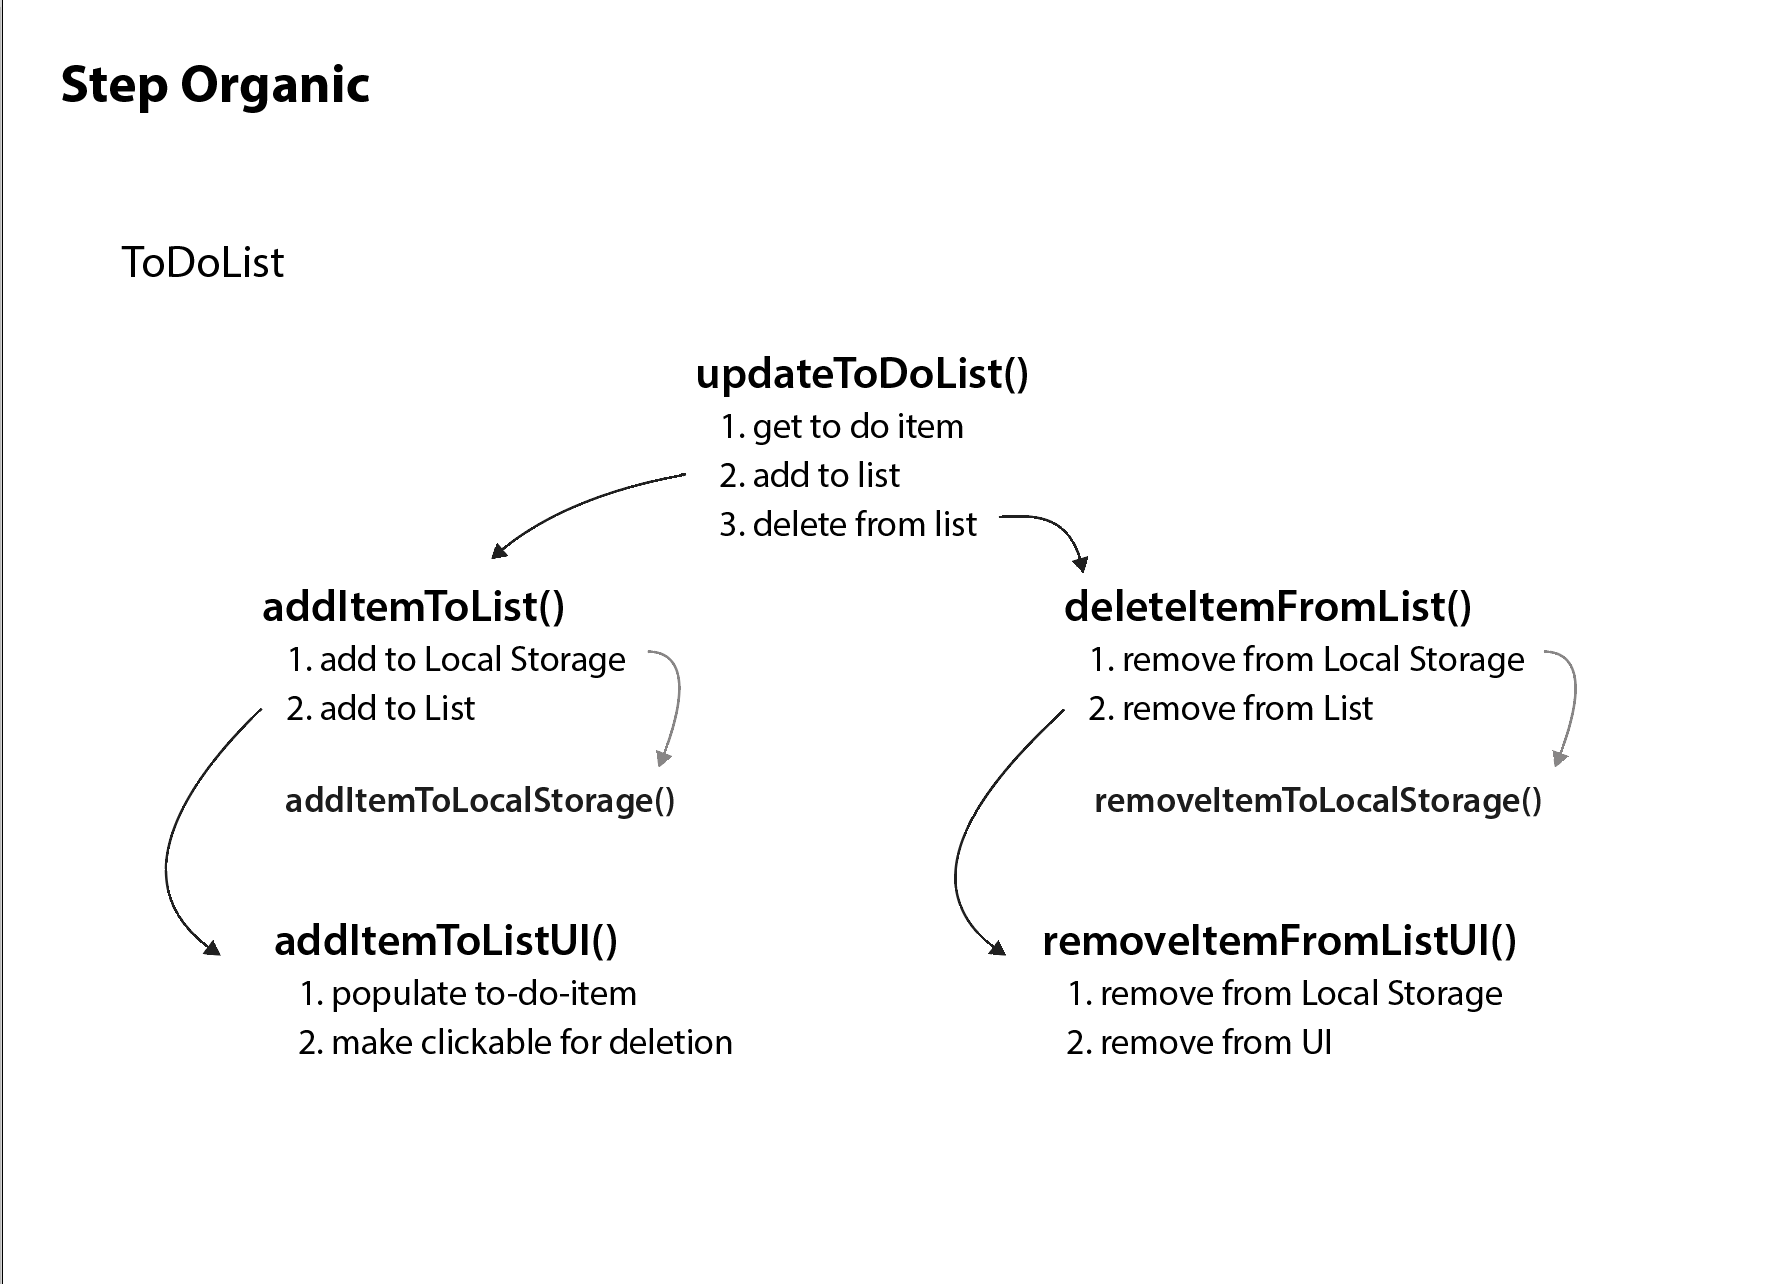
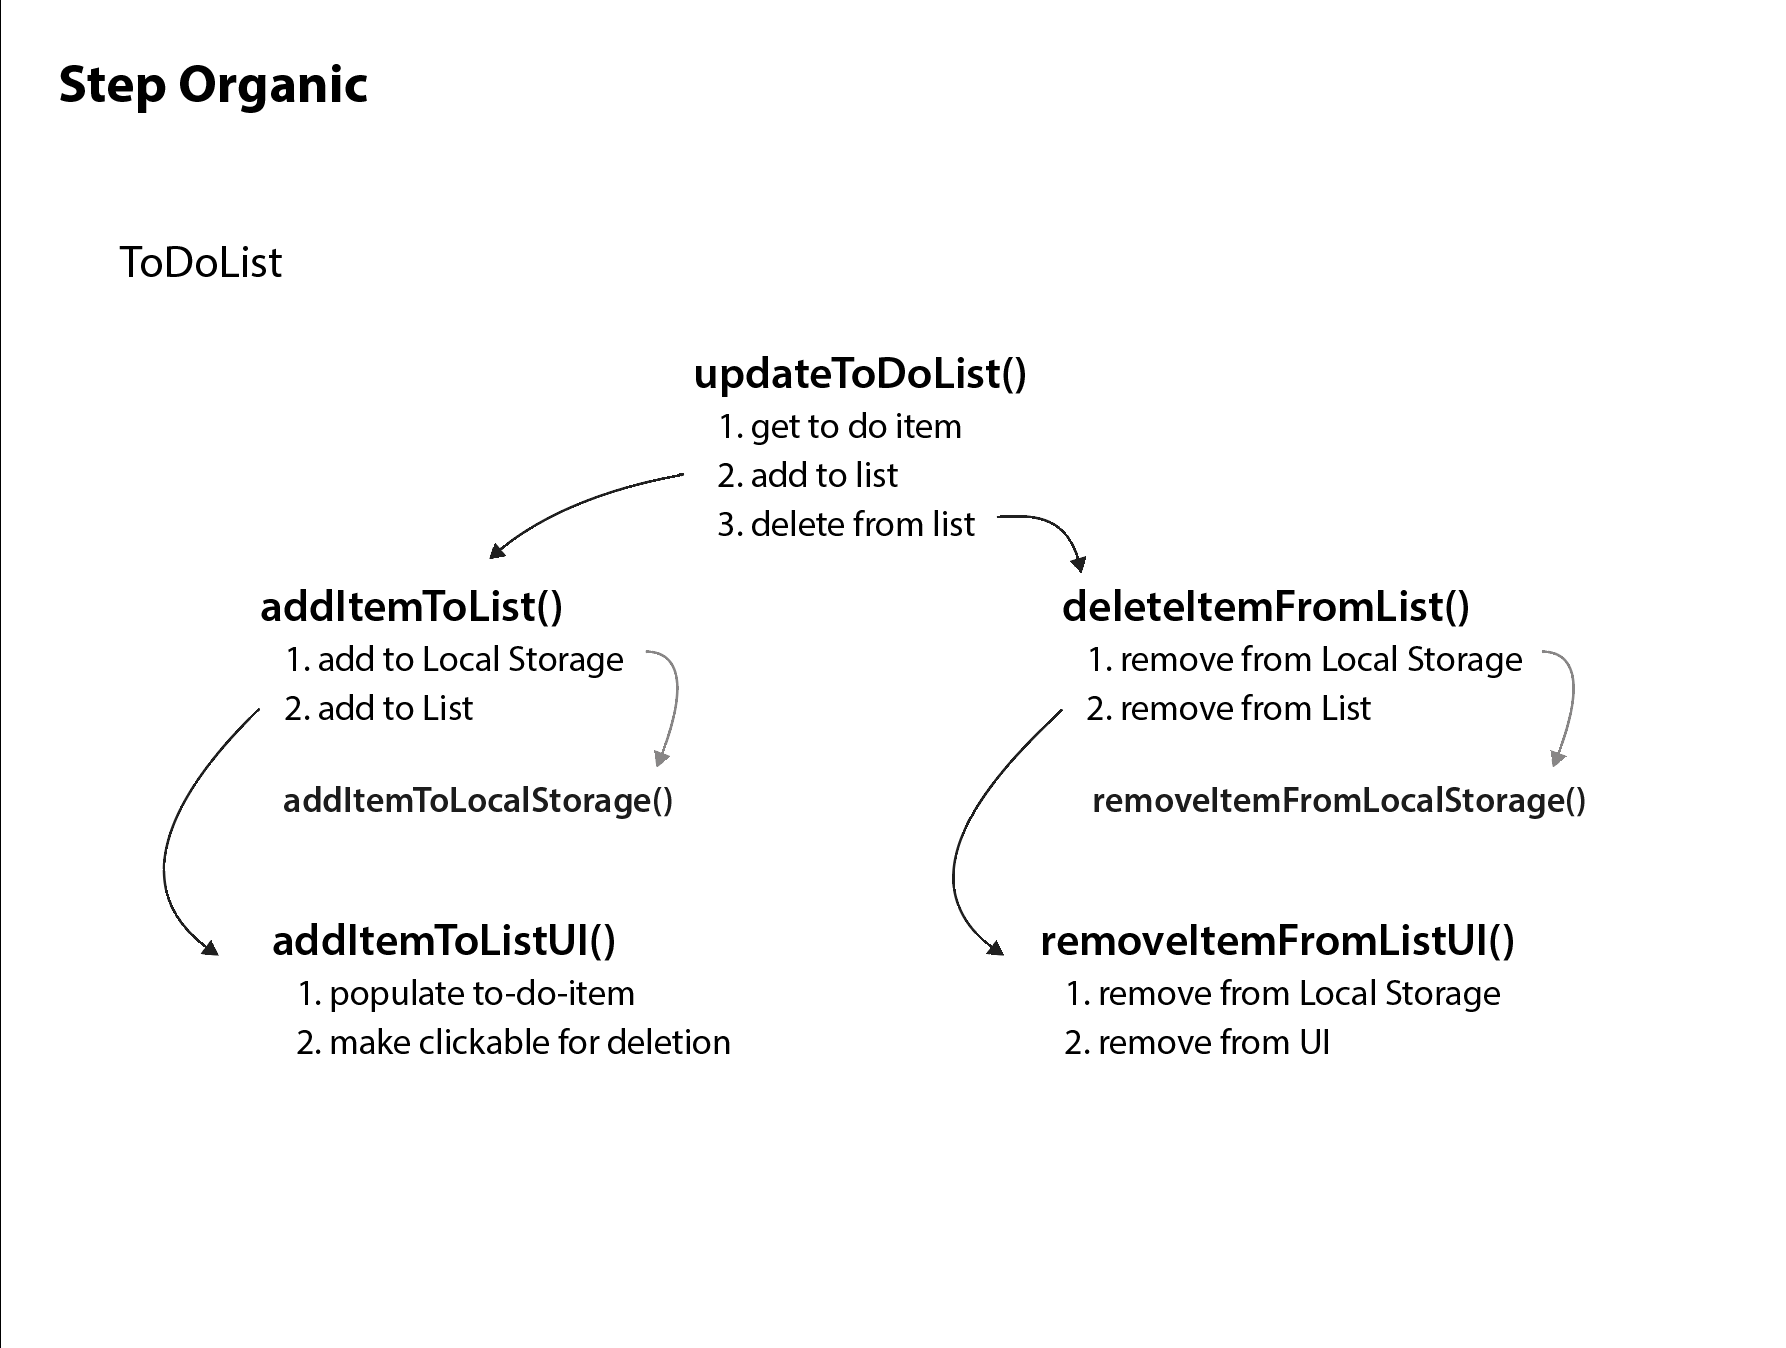
push for updated WIP

diff --git a/index.js b/index.js
@@ -28,9 +28,11 @@ function updateToDoList() {
   // append new item to list
   // addItemToListUI(newToDoItem);
   addItemToList(newToDoItem);
+  deleteItemFromList(oldToDoItem)
 
 }
 
+// *** Procedure: Add an Item
 function getNewToDoItem() {
   const inputBox = document.getElementById("input-box");
   return inputBox.value;
@@ -61,19 +63,38 @@ function addItemToListUI(item) {
     //if any, attach 'onclick' to each populated element for delete confirmation
     const itemButton = document.querySelectorAll('.task-item')
     for (var i = 0 ; i < itemButton.length; i++) {
-      itemButton[i].addEventListener('click' , deleteDialog)
+      itemButton[i].addEventListener('click' , deleteModalPopUp)
     }
    }  
   }
+
   //Delete Confirmation dialog box
-  function deleteDialog(item){ 
-    const delModalShow = () => {document.getElementById('delModal').style.display='block';}
-    delModalShow();
+  function deleteModalPopUp(item){ 
+    document.getElementById('delModal').style.display='block';
   }
-  // Remove item from LocalStorage
-  function deleteFromList(){
+
+// *** Procedure: Delete an Item
+  function getItemToDelete() {
+  
+  }
+  function removeItemFromList(item) {
+    // update storage
+    removeItemFromLocalStorage(item);
+
+    //ToDo: instead of removing per item,
+    // refresh UI with the entire new ToDo list.
+    removeItemFromListUI(item);
+  }
+  function removeItemFromLocalStorage(item) {
+    localStorage.removeItem(LOCAL_STORAGE_KEY, [item]);
+  }
+  function removeItemFromListUI(){
 
   }
+
+
+
+
 
   
 

diff --git a/index.html b/index.html
@@ -30,7 +30,7 @@
     
           <div class="clearfix">
             <button type="button" class="cancelbtn" onclick="document.getElementById('delModal').style.display='none'">Cancel</button>
-            <button type="button" class="deletebtn" onclick="deleteFromList()">Delete</button>
+            <button type="button" class="deletebtn" onclick="removeItemFromList()">Delete</button>
           </div>
         </div>
       </form>
